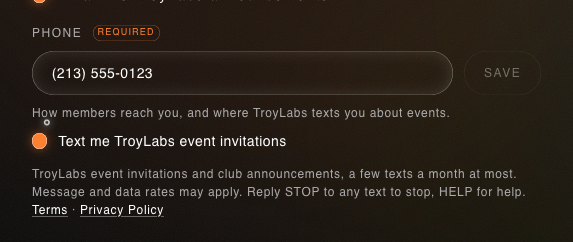
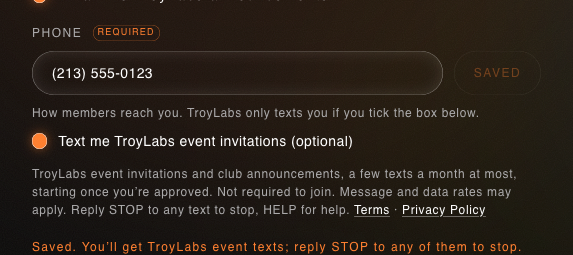
Texts are an optional, unticked choice at sign-up (A2P rejects consent bundled with joining, errors 30931/30923): ticking it means the 'you're in' text on approval; joining without it works. Privacy, terms and the public opt-in screenshots match

diff --git a/src/scripts/portal-profile.ts b/src/scripts/portal-profile.ts
@@ -82,9 +82,6 @@ function fill(r: ProfileRow, admin: boolean) {
   const known = [...document.querySelectorAll<HTMLElement>('[data-field="industries"] .portal-chip')].map((c) => c.textContent!.replace(/^✓\s*/, '').trim());
   setChips('[data-field="industries"]', r.industries ?? []); setTags('#pf-industries-extra', (r.industries ?? []).filter((i) => !known.includes(i)));
   ($('#pf-loc') as HTMLInputElement).value = cityLabel(r.city); ($('#pf-loc-note') as HTMLElement).textContent = r.city ? `${cityLabel(r.city)} · pin on the globe` : 'No pin on the globe yet. Add your city so alumni can find you on the map.';
-  // texts come with signing up (Bryan, 2026-10-06): no choice before the application is submitted, the off switch after
-  const signingUp = !other && !r.approved && !r.submitted_at;
-  ($('[data-texts-signup]') as HTMLElement).hidden = !signingUp; ($('[data-texts-choice]') as HTMLElement).hidden = signingUp;
   document.querySelectorAll('.portal-contact-row').forEach((el) => el.dispatchEvent(new Event('tl:loaded')));
   recount();
 }
@@ -268,14 +265,14 @@ async function init() {
         const miss = applicationMissing({ full_name: patch.full_name ?? '', grad_year: patch.grad_year ?? null, join_year: patch.join_year ?? null, divisions: patch.divisions ?? [], city_id: patch.city_id ?? row?.city_id ?? null, linkedin_url: patch.linkedin_url ?? null, phone: row?.phone ?? null, personal_email: row?.personal_email ?? null });
         if (miss.length) { showMissing(miss, wasSubmitted ? 'Your profile still needs' : 'Before you can submit, add'); return; }
       }
-      if (waiting && !wasSubmitted) patch.phone_opt_in = true;   // texts come with signing up (the form says so above the phone box)
+      if (waiting && !wasSubmitted) patch.phone_opt_in = ($('#pf-phone-opt') as HTMLInputElement).checked;   // the optional, unticked box under the phone (A2P: consent must be a choice, not part of joining)
       const res = await save(patch);
       if (!res.ok) { flash(btn, 'NOT SAVED', res.message, false); return; }
       if (waiting) {
         const sub = await submitApplication();   // marks them submitted (first time) and keeps a backup copy of what they sent
         if (sub.error) { fill(res.row, who!.admin); flash(btn, 'NOT SENT', `Saved, but it couldn't be sent to leadership: ${sub.error.message}`, false); return; }
         res.row.submitted_at = (sub.data as string | null) ?? new Date().toISOString(); who!.submitted = true;
-        // texts are on now; the first text ("you're in") goes out when an admin approves them, not here (Bryan, 2026-10-06)
+        // if they ticked texts, the first one ("you're in") goes out when an admin approves them, not here
       }
       fill(res.row, who!.admin); label(saveBtn); void linkedInPanel();
       if (waiting) { who!.missing = []; onboard(!wasSubmitted); flash(btn, wasSubmitted ? 'SAVED' : 'SUBMITTED', wasSubmitted ? 'Saved. Leadership sees your latest answers.' : 'Submitted. Your profile is with TroyLabs leadership.'); if (!wasSubmitted) $('#pf-onboard')?.scrollIntoView({ behavior: 'smooth', block: 'center' }); }
@@ -306,8 +303,7 @@ async function init() {
       if (kind === 'phone' && v && !phone) { flash(btn, 'NOT SAVED', 'Enter a number that can get texts, like (310) 555-0101, or +44 20 7946 0958 outside the US.', false); return; }
       const textsOn = ($('#pf-phone-opt') as HTMLInputElement).checked;
       if (kind === 'phone' && textsOn && !phone) { flash(btn, 'NOT SAVED', 'Add your number to get texts.', false); return; }
-      const choosing = !($('[data-texts-choice]') as HTMLElement).hidden;   // during sign-up there's no choice to save
-      const patch: Partial<ProfileRow> = kind === 'usc' ? { usc_email: v } : kind === 'personal' ? { personal_email: v } : choosing ? { phone, phone_opt_in: textsOn } : { phone };
+      const patch: Partial<ProfileRow> = kind === 'usc' ? { usc_email: v } : kind === 'personal' ? { personal_email: v } : { phone, phone_opt_in: textsOn };
       if (kind === 'usc' && v && !/@(?:[a-z0-9-]+\.)*usc\.edu$/i.test(v)) { flash(btn, 'NOT SAVED', 'That is not a usc.edu address.', false); return; }
       if (kind === 'personal' && !v) { flash(btn, 'NOT SAVED', 'Keep a personal email on file so members can reach you.', false); return; }
       if (kind === 'personal' && v && !input.checkValidity()) { flash(btn, 'NOT SAVED', 'Enter a valid email address.', false); return; }
